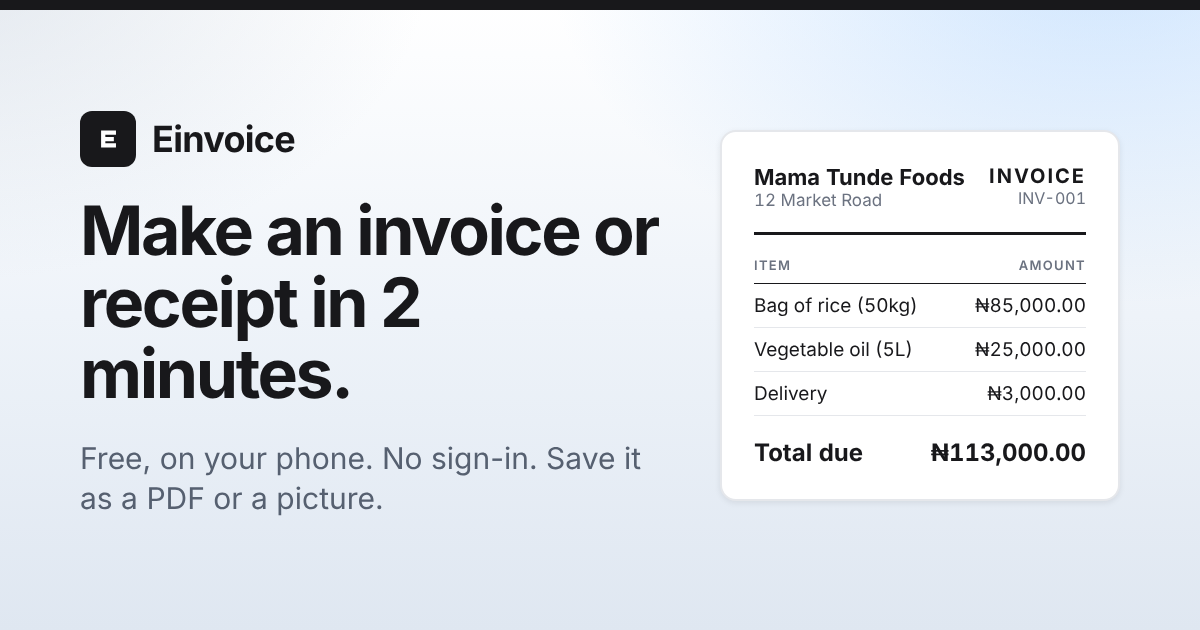
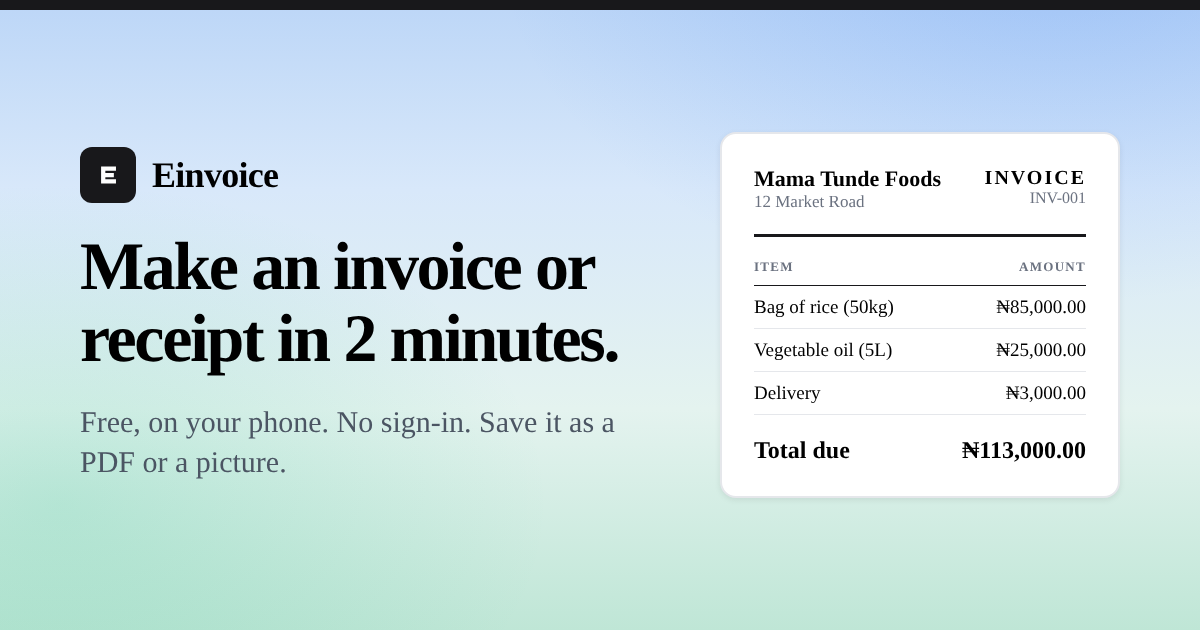
Make the gradient background clearly visible, blue to mint
Claude-Session: https://claude.ai/code/session_01MTt6t1Mc64GwKhz2jY5gWA

diff --git a/site.css b/site.css
@@ -3,7 +3,7 @@
   --white: #FFFFFF;
   --gray-50: #F5F5F5;
   --gray-200: #E5E7EB;
-  --gray-500: #566070;
+  --gray-500: #4B5563;
   --black: #18181B;
   --black-deep: #09090B;
   --radius: 10px;
@@ -17,8 +17,8 @@
 html { -webkit-text-size-adjust: 100%; }
 body {
   margin: 0; min-height: 100vh; color: var(--black);
-  background-color: #EEF3F9;
-  background-image: radial-gradient(900px 520px at 92% -60px, rgba(147, 197, 253, 0.38), transparent 70%), radial-gradient(760px 460px at -5% -40px, rgba(203, 213, 225, 0.55), transparent 70%), linear-gradient(180deg, #FFFFFF 0%, #EEF3F9 45%, #DFE7F1 100%);
+  background-color: #D8E8FA;
+  background-image: radial-gradient(900px 560px at 85% -60px, rgba(59, 130, 246, 0.22), transparent 70%), radial-gradient(800px 520px at 5% 32%, rgba(16, 185, 129, 0.16), transparent 70%), linear-gradient(180deg, #BCD6F7 0%, #D8E8FA 22%, #E4F3EF 58%, #BFE6D6 100%);
   background-repeat: no-repeat;
   font-family: var(--font); font-size: 17px; line-height: 1.55;
 }
@@ -42,7 +42,7 @@ a:focus-visible, summary:focus-visible { outline: 2px solid var(--black); outlin
 }
 .brand { font-weight: 700; font-size: 22px; letter-spacing: -0.02em; }
 .site-head nav { display: flex; align-items: center; gap: 18px; }
-.navlink { font-weight: 600; font-size: 16px; color: var(--gray-500); text-decoration: none; padding-block: 10px; }
+.navlink { font-weight: 600; font-size: 16px; color: #374151; text-decoration: none; padding-block: 10px; }
 .navlink:hover, .navlink[aria-current="page"] { color: var(--black); }
 .navlink[aria-current="page"] { text-decoration: underline; text-underline-offset: 6px; }
 
@@ -98,7 +98,7 @@ p { margin: 0; }
 
 /* sections */
 .section { padding-block: 56px; }
-.section.band { background: rgba(255, 255, 255, 0.55); border-block: 1px solid var(--gray-200); }
+.section.band { background: rgba(255, 255, 255, 0.45); border-block: 1px solid var(--gray-200); }
 .section-head { display: grid; gap: 12px; margin-bottom: 32px; max-width: 40em; }
 .grid { display: grid; gap: 16px; grid-template-columns: minmax(0, 1fr); }
 @media (min-width: 640px) { .cols-2, .cols-3 { grid-template-columns: repeat(2, minmax(0, 1fr)); } }

diff --git a/app.html b/app.html
@@ -14,7 +14,7 @@
   --white: #FFFFFF;
   --gray-50: #F5F5F5;
   --gray-200: #E5E7EB;
-  --gray-500: #566070;
+  --gray-500: #4B5563;
   --black: #18181B;
   --black-deep: #09090B;
 
@@ -47,8 +47,8 @@
 [hidden] { display: none !important; }
 body {
   min-height: 100vh;
-  background-color: #EEF3F9;
-  background-image: radial-gradient(900px 520px at 92% -60px, rgba(147, 197, 253, 0.38), transparent 70%), radial-gradient(760px 460px at -5% -40px, rgba(203, 213, 225, 0.55), transparent 70%), linear-gradient(180deg, #FFFFFF 0%, #EEF3F9 45%, #DFE7F1 100%);
+  background-color: #D8E8FA;
+  background-image: radial-gradient(900px 560px at 85% -60px, rgba(59, 130, 246, 0.22), transparent 70%), radial-gradient(800px 520px at 5% 32%, rgba(16, 185, 129, 0.16), transparent 70%), linear-gradient(180deg, #BCD6F7 0%, #D8E8FA 22%, #E4F3EF 58%, #BFE6D6 100%);
   background-repeat: no-repeat;
   color: var(--ink);
   font-family: var(--font-body);
@@ -224,7 +224,7 @@ button:disabled { opacity: 0.55; cursor: progress; }
         <p class="tag">Make an invoice or receipt in 2 minutes.</p>
       </div>
     </a>
-    <a href="how-it-works.html" style="margin-left:auto;flex:none;color:var(--muted);font-weight:600;font-size:15px;text-decoration:underline;text-underline-offset:3px;padding-block:10px">How it works</a>
+    <a href="how-it-works.html" style="margin-left:auto;flex:none;color:#374151;font-weight:600;font-size:15px;text-decoration:underline;text-underline-offset:3px;padding-block:10px">How it works</a>
   </header>
 
   <main id="form-view">
